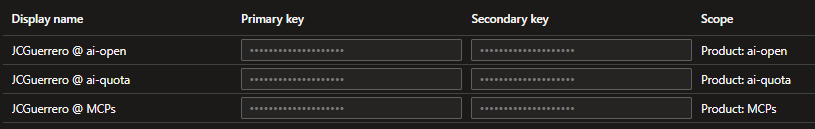
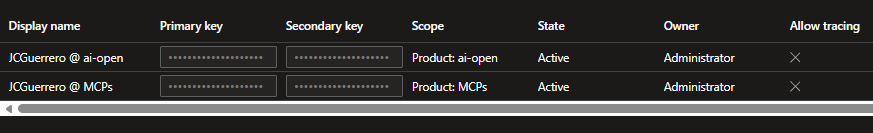
Add RBAC documentation for APIM to Foundry integration

Changed region(s): [[0.0, 0.093, 1.0, 0.9612], [0.184, 0.4031, 0.3067, 0.4651]]

diff --git a/docs/tutorial/06/apim/products.md b/docs/tutorial/06/apim/products.md
@@ -1,13 +1,6 @@
-# Re-using policies
+# Grouping APIs
 
-Remember the Token Limit quota policy we added to Both APIs? Imagine a business requirement like this
-
-1. We want to give team A 10M tokens per day. But team B only 1M tokens per day.
-1. We want team C to have no quota.
-
-That can quickly turn into a complex set of APIs just for the sake of the policies.
-
-Luckily, we don't have to resort to that. APIM includes a notion called "Products", which is basically a collection of APIs with associated policies and subscription requirements. By grouping APIs into products, we can apply policies at the product level and manage access through subscriptions, simplifying the management of different quotas and access levels for different teams.
+APIM includes a notion called "Products", which is basically a collection of APIs with associated policies and subscription requirements. By grouping APIs into products, we can apply policies at the product level and manage access through subscriptions, simplifying the management of different quotas and access levels for different teams.
 
 For more information, see [Tutorial: Create and publish a product](https://learn.microsoft.com/en-us/azure/api-management/api-management-howto-add-products?tabs=azure-portal&pivots=interactive)
 
@@ -51,94 +44,10 @@ You should receive an email notification for the subscription you just added.
 
 ![eMail](../../../../assets/img/tutorial/eastus/apim/Products/ai-open/Subscriptions/eMail.png)
 
-### ai-quota
-
-Remember that policy to apply a quota limit?
-
-```xml
-<!-- Sets limit -->
-<llm-token-limit
-  remaining-quota-tokens-header-name="remaining-tokens"
-  remaining-tokens-header-name="remaining-tokens"
-  tokens-per-minute="1000"
-  token-quota="10000" token-quota-period="Hourly"
-  counter-key="@(context.Subscription.Id)"
-  estimate-prompt-tokens="true"
-  tokens-consumed-header-name="consumed-tokens" />
-```
-
-We'll follow the same steps above, then
-
-1. Click on the product
-2. v Product > Policies
-
-Apply the same policy, resulting in the following XML:
-
-```xml
-<!--
-    - Policies are applied in the order they appear.
-    - Position <base/> inside a section to inherit policies from the outer scope.
-    - Comments within policies are not preserved.
--->
-<!-- Add policies as children to the <inbound>, <outbound>, <backend>, and <on-error> elements -->
-<policies>
-    <!-- Throttle, authorize, validate, cache, or transform the requests -->
-    <inbound>
-        <base />
-        <!-- Sets limit -->
-        <llm-token-limit
-          remaining-quota-tokens-header-name="remaining-tokens"
-          remaining-tokens-header-name="remaining-tokens"
-          tokens-per-minute="1000"
-          token-quota="10000" token-quota-period="Hourly"
-          counter-key="@(context.Subscription.Id)"
-          estimate-prompt-tokens="true"
-          tokens-consumed-header-name="consumed-tokens" />
-    </inbound>
-    <!-- Control if and how the requests are forwarded to services  -->
-    <backend>
-        <base />
-    </backend>
-    <!-- Customize the responses -->
-    <outbound>
-        <base />
-    </outbound>
-    <!-- Handle exceptions and customize error responses  -->
-    <on-error>
-        <base />
-    </on-error>
-</policies>
-```
-
-Now, we can remove that `<llm-token-limit>` policy from the individual APIs, since it's now applied at the product level.
-
-#### Policy scopes
-
-So far we've learned how to apply policies at different scopes:
-
-- **Global**: APIM in general
-- At the **API** level
-- At the **Product** level, which allows us to enforce rules like token quotas across all APIs within a product. This approach simplifies management and ensures consistent behavior for all APIs under the same product.
-
-These are the scopes a policy can be applied to:
-
-- Global: APIM in general
-  - Product
-    - API
-      - Operation (i.e. `GET`, `POST`, etc.)
-
-![Policy Scopes](../../../../assets/img/tutorial/eastus/apim/Policy_scopes.png)
-
-For more information, visit [Policies in Azure API Management](https://learn.microsoft.com/en-us/azure/api-management/api-management-howto-policies)
-
 #### Subscriptions
 
 1. [ + Add subscribers ]
 1. Select the Admin (your self)
-
-### ai-quota-premium
-
-Bonus exercise: Create another product called `ai-quota-premium` with a higher token quota, for example 100K tokens per hour, and apply the same `<llm-token-limit>` policy with the updated quota values.
 
 ### MCPs
 

diff --git a/docs/tutorial/07/rbac.md b/docs/tutorial/07/rbac.md
@@ -1,0 +1,112 @@
+# APIM to Foundry RBAC
+
+Before we begin, we need to do this. Unfortunately, this step needs to be done manually using az cli.
+
+## Security
+
+We've defined against what endpoint APIM will authenticate against (`https://cognitiveservices.azure.com/`). But we haven't specified what role APIM will assume.
+
+This is no different than identifying yourself outside a door, but not being let in.
+
+### Managed identities
+
+#### Azure role assignments
+
+1. APIM > Security > Managed identities
+1. Click [ Azure role assignments ]
+
+Now, we need to manually assign the appropriate Azure roles to the managed identity used by APIM so it can access the Cognitive Services endpoints.
+
+## AZ CLI
+
+### "Cognitive Services User" Role Id
+
+Run
+
+```
+$> az role definition list --name "Cognitive Services User"
+```
+
+It should return something like
+
+```json
+[
+  {
+    "assignableScopes": ["/"],
+    "createdBy": null,
+    "createdOn": "2018-08-08T23:23:43.770127+00:00",
+    "description": "Lets you read and list keys of Cognitive Services.",
+    "id": "/subscriptions/{subscriptionId}/providers/Microsoft.Authorization/roleDefinitions/a97b65f3-24c7-4388-baec-2e87135dc908",
+    ...
+```
+
+Make not of this guy
+
+```
+"id": "/subscriptions/{subscriptionId}/providers/Microsoft.Authorization/roleDefinitions/a97b65f3-24c7-4388-baec-2e87135dc908",
+```
+
+### APIM Service Principal Object Id
+
+Then, we need to get the Object Id of the APIM service principal. This can be done using the Azure CLI:
+
+```
+$> az apim show --name ai-gw-{stack-id}-eastus-apim --resource-group ai-gw-{stack-id}-rg --query identity.principalId --output tsv
+```
+
+Which should return a GUId
+
+`8-4-4-4-12`
+
+### Create Role assignment
+
+```
+az role assignment create \
+  --assignee {APIM Service Principal Object GUId} \
+  --role "Cognitive Services User" \
+  --scope /subscriptions/{subscriptionId}/resourceGroups/ai-gw-{stack-id}-rg/providers/Microsoft.CognitiveServices/accounts/ai-gw-{stack-id}-eastus-foundry-ptu
+```
+
+And it should reply w/
+
+```json
+{
+  "condition": null,
+  "conditionVersion": null,
+  "createdBy": null,
+  "createdOn": "2026-04-15T20:45:27.008045+00:00",
+  "delegatedManagedIdentityResourceId": null,
+  "description": null,
+  "id": "/subscriptions/subscriptionId/resourceGroups/ai-gw-{stack-id}-rg/providers/Microsoft.CognitiveServices/accounts/ai-gw-{stack-id}-eastus-foundry-ptu/providers/Microsoft.Authorization/roleAssignments/6315dfc7-dbf6-4d8a-b7bb-c49264465664",
+  "name": "6315dfc7-dbf6-4d8a-b7bb-c49264465664",
+  "principalId": "48da1b46-a305-4f4b-92ca-f30824e1bcb2",
+  "principalType": "ServicePrincipal",
+  "resourceGroup": "ai-gw-{stack-id}-rg",
+  "roleDefinitionId": "/subscriptions/subscriptionId/providers/Microsoft.Authorization/roleDefinitions/a97b65f3-24c7-4388-baec-2e87135dc908",
+  "scope": "/subscriptions/subscriptionId/resourceGroups/ai-gw-{stack-id}-rg/providers/Microsoft.CognitiveServices/accounts/ai-gw-{stack-id}-eastus-foundry-ptu",
+  "type": "Microsoft.Authorization/roleAssignments",
+  "updatedBy": "7f2a60af-69de-4676-90f5-686a872b8521",
+  "updatedOn": "2026-04-15T20:45:27.515048+00:00"
+}
+```
+
+Now do the same for `ai-gw-{stack-id}-eastus-foundry-ptu`
+
+## Result
+
+Go back to the Azure role assignments section
+
+Now it should look like this
+
+![Azure role assignments](../../../assets/img/tutorial/eastus/apim/Security/Managed_identities/Azure_role_assignments/03.png)
+
+## WARNING
+
+> [!WARNING]
+> If you were not able to complete this section, skip this module completely!
+
+Everything else builds upon this part.
+
+## Next
+
+[Back to Module](./README.md)

diff --git a/docs/tutorial/07/apim/content-safety.md b/docs/tutorial/07/apim/content-safety.md
@@ -58,7 +58,6 @@ Follow the same steps as above to create a new backend for
 - Backend weight and priority:
   - [x] Send requests evenly
 
-
 ## Policy fragments
 
 We'll create a couple of Policy fragments
@@ -139,3 +138,52 @@ We'll create a couple of Policy fragments
 ```
 
 ## Products
+
+We'll create the following products:
+
+- `ai-relaxed`
+- `ai-strict`
+
+### ai-relaxed
+
+#### Add
+
+Follow the steps you did for `ai-open`
+
+1. APIM > Products
+1. [ + Add ]
+
+  - Display name: `ai-relaxed`
+  - Id: `ai-relaxed`
+  - Description: "AI access with relaxed content safety settings"
+  - [x] Published
+  - [x] Requires subscription
+  - APIs: Select all 3 `foundry-`
+
+#### Policies
+
+Add the `<include-fragment fragment-id="llm-content-safety_relaxed" />` to the inbound policies of the `ai-relaxed` product.
+
+```xml
+<!--
+    - Policies are applied in the order they appear.
+    - Position <base/> inside a section to inherit policies from the outer scope.
+    - Comments within policies are not preserved.
+ -->
+<!-- Add policies as children to the <inbound>, <outbound>, <backend>, and <on-error> elements -->
+<policies>
+    <!-- Throttle, authorize, validate, cache, or transform the requests -->
+    <inbound>
+        <base />
+        <include-fragment fragment-id="llm-content-safety_relaxed" />
+    </inbound>
+
+    <!-- ... -->
+</policies>
+```
+
+#### Subscriptions
+
+1. [ + Add subscribers ]
+1. Select both: `{your username}` and `Smoke Test Agent`
+1. Rename policies to `{foo} @ ai-relaxed`

diff --git a/docs/tutorial/06/apim/policy_fragment.md b/docs/tutorial/06/apim/policy_fragment.md
@@ -59,11 +59,11 @@ Note how it says
 > _Start using policy fragments in your policy documents._
 > `<include-fragment fragment-id="subscription_rate-limit_60s_3x" />`
 
-##### MCP Servers
+##### Products
 
-1. APIM > APIs > MCP Servers
-1. Go to `mcp-existing-mslearn`
-1. [ > MCP ] > Policies
+1. APIM > Products > MCPs
+1. Select "MCPs"
+1. [ v Product ] > Policies
 1. Add the following in inbound
 
 ```xml
@@ -76,6 +76,25 @@ Note how it says
   <!-- ... -->
 </policies>
 ```
+
+##### Policy scopes
+
+So far we've learned how to apply policies at different scopes:
+
+- **Global**: APIM in general
+- At the **API** level
+- At the **Product** level, which allows us to enforce rules like token quotas across all APIs within a product. This approach simplifies management and ensures consistent behavior for all APIs under the same product.
+
+These are the scopes a policy can be applied to:
+
+- Global: APIM in general
+  - Product
+    - API
+      - Operation (i.e. `GET`, `POST`, etc.)
+
+![Policy Scopes](../../../../assets/img/tutorial/eastus/apim/Policy_scopes.png)
+
+For more information, visit [Policies in Azure API Management](https://learn.microsoft.com/en-us/azure/api-management/api-management-howto-policies)
 
 ##### Test the policy fragment in VS Code
 

diff --git a/docs/tutorial/06/apim/subscriptions.md b/docs/tutorial/06/apim/subscriptions.md
@@ -60,11 +60,8 @@ Alas, here is the link for you to be aware of [Authorize developer accounts by u
 
 Follow the same steps as before to create a subscription for the Smoke Test Agent for
 
-- one of the products:
-  - `ai-open`
-  - `ai-quota`
-  - `ai-quota-premium`
-- And `mcp`
+- AI: `ai-open`
+- And MCPs `mcp`
 
 Mine ended up looking like this:
 
@@ -75,7 +72,7 @@ Mine ended up looking like this:
 ```
 # openai via APIM
 AZURE_OPENAI__ENDPOINT="https://ai-gw-{stack-id}-eastus-apim.azure-api.net/foundry-openai-lb/openai/deployments/gpt-4.1-mini-global-standard-latest/chat/completions?api-version=2025-01-01-preview"
-AZURE_OPENAI__API_KEY="{Smoke Test Agent @ ai-quota}"
+AZURE_OPENAI__API_KEY="{Smoke Test Agent @ ai-open}"
 AZURE_OPENAI__DEPLOYMENT="gpt-4.1-mini-global-standard-latest"
 
 # MCP via APIM
@@ -122,7 +119,7 @@ You should see an error like
 
 #### Disable AI access
 
-We'll do the same, but now for the `ai-quota` product.
+We'll do the same, but now for the `ai-open` product.
 
 1. Count 10 Mississippis
 
